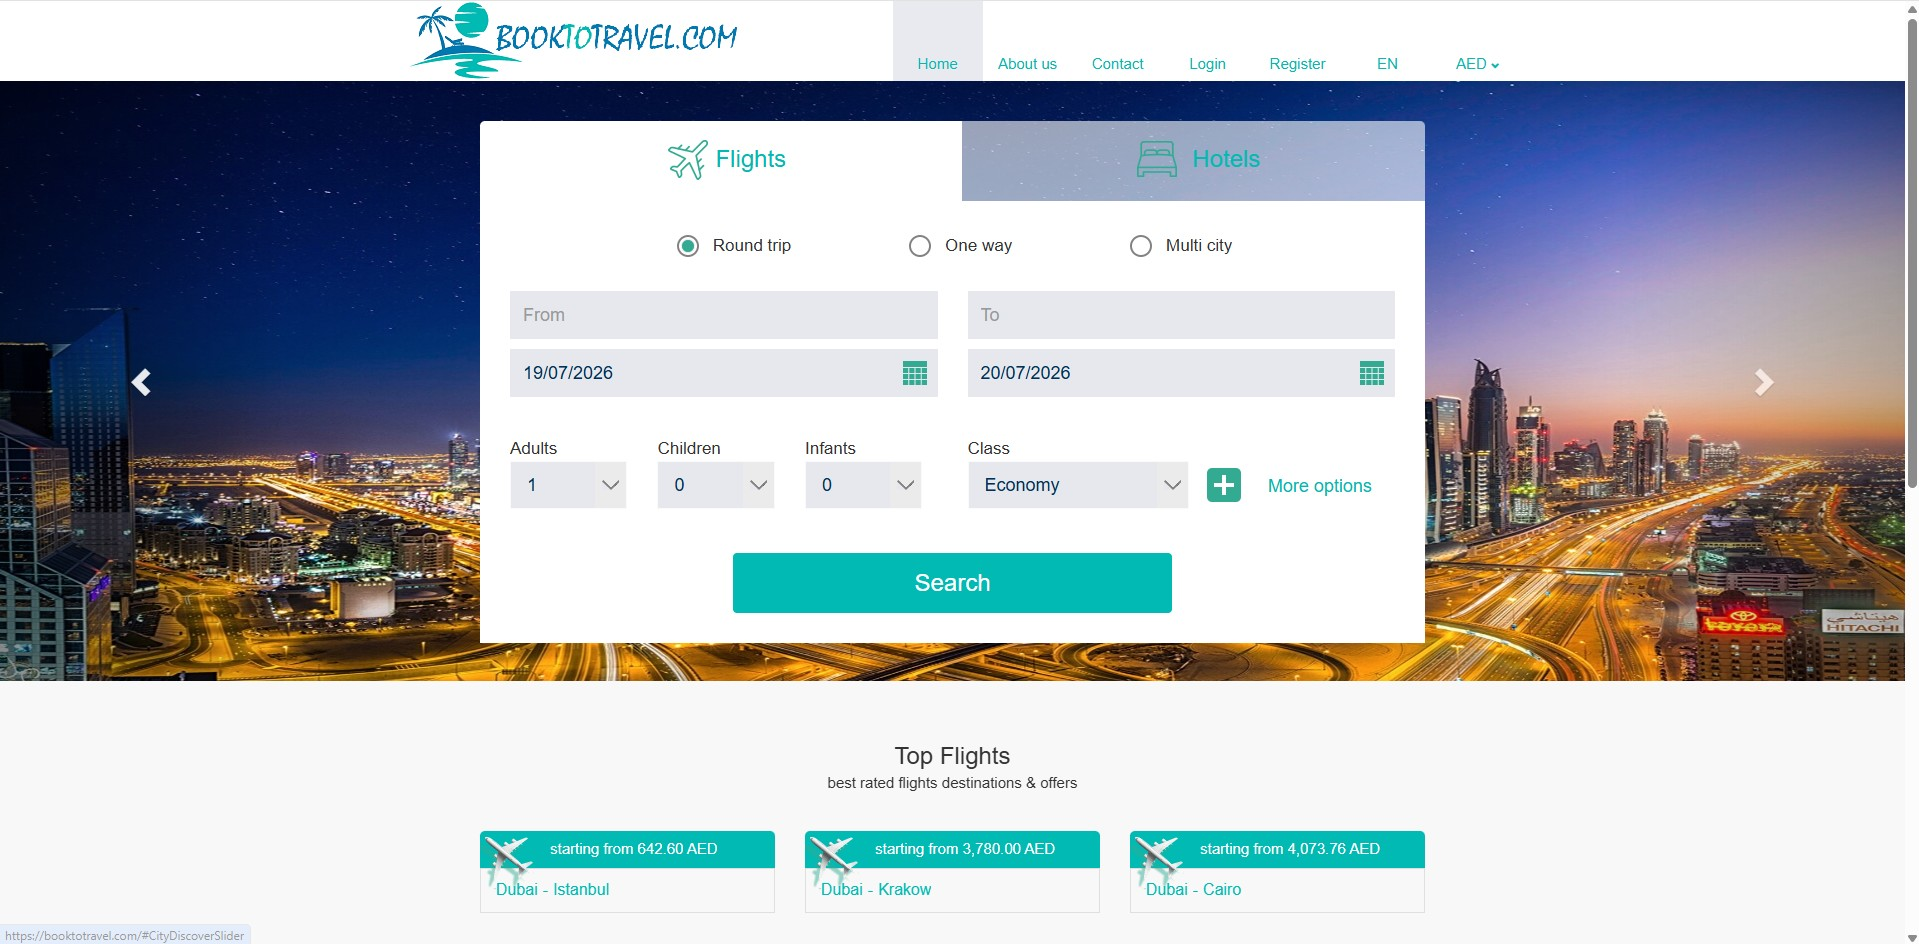
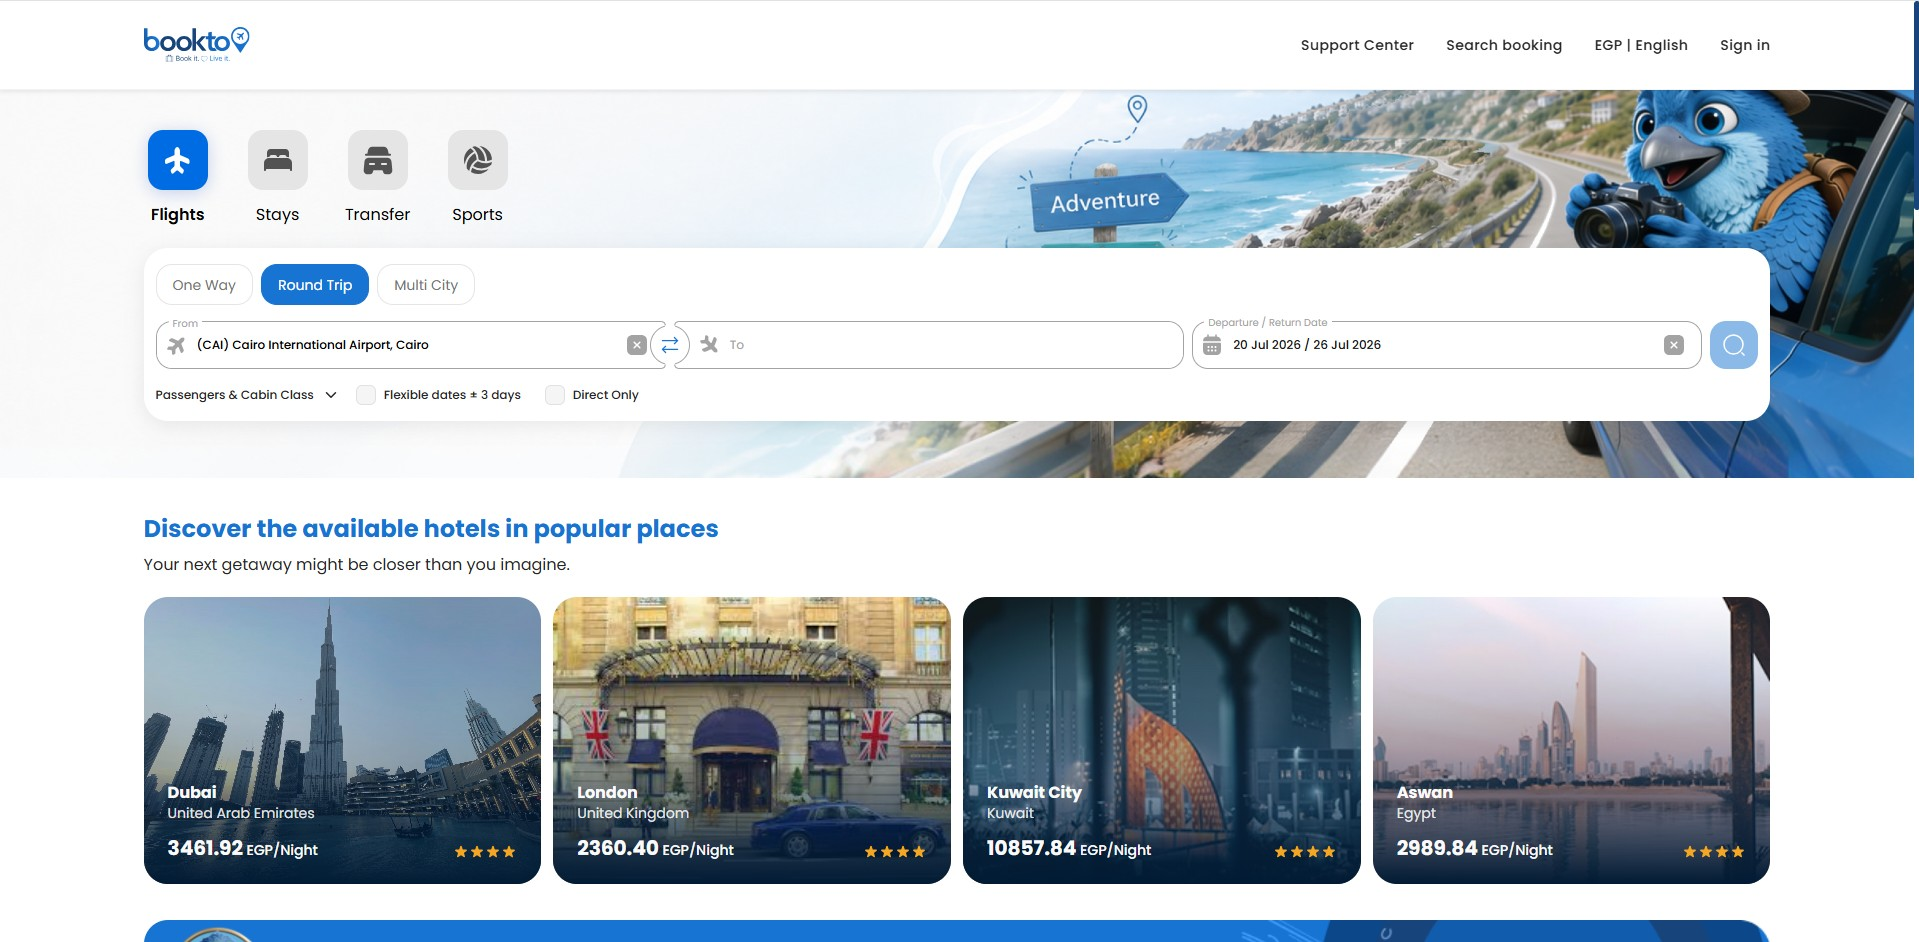
last-update

diff --git a/index.html b/index.html
@@ -410,7 +410,7 @@
               </ul>
               <div class="chips"><span>Angular</span><span>UX</span><span>Performance</span><span>Testing</span></div>
               <div class="project-ctas">
-                <a class="project-link" href="https://booktotravel.com/" target="_blank" rel="noopener">View live site</a>
+                <a class="project-link" href="https://bookto.com/" target="_blank" rel="noopener">View live site</a>
                 <a class="project-secondary" href="#contact">Case study →</a>
               </div>
             </div>